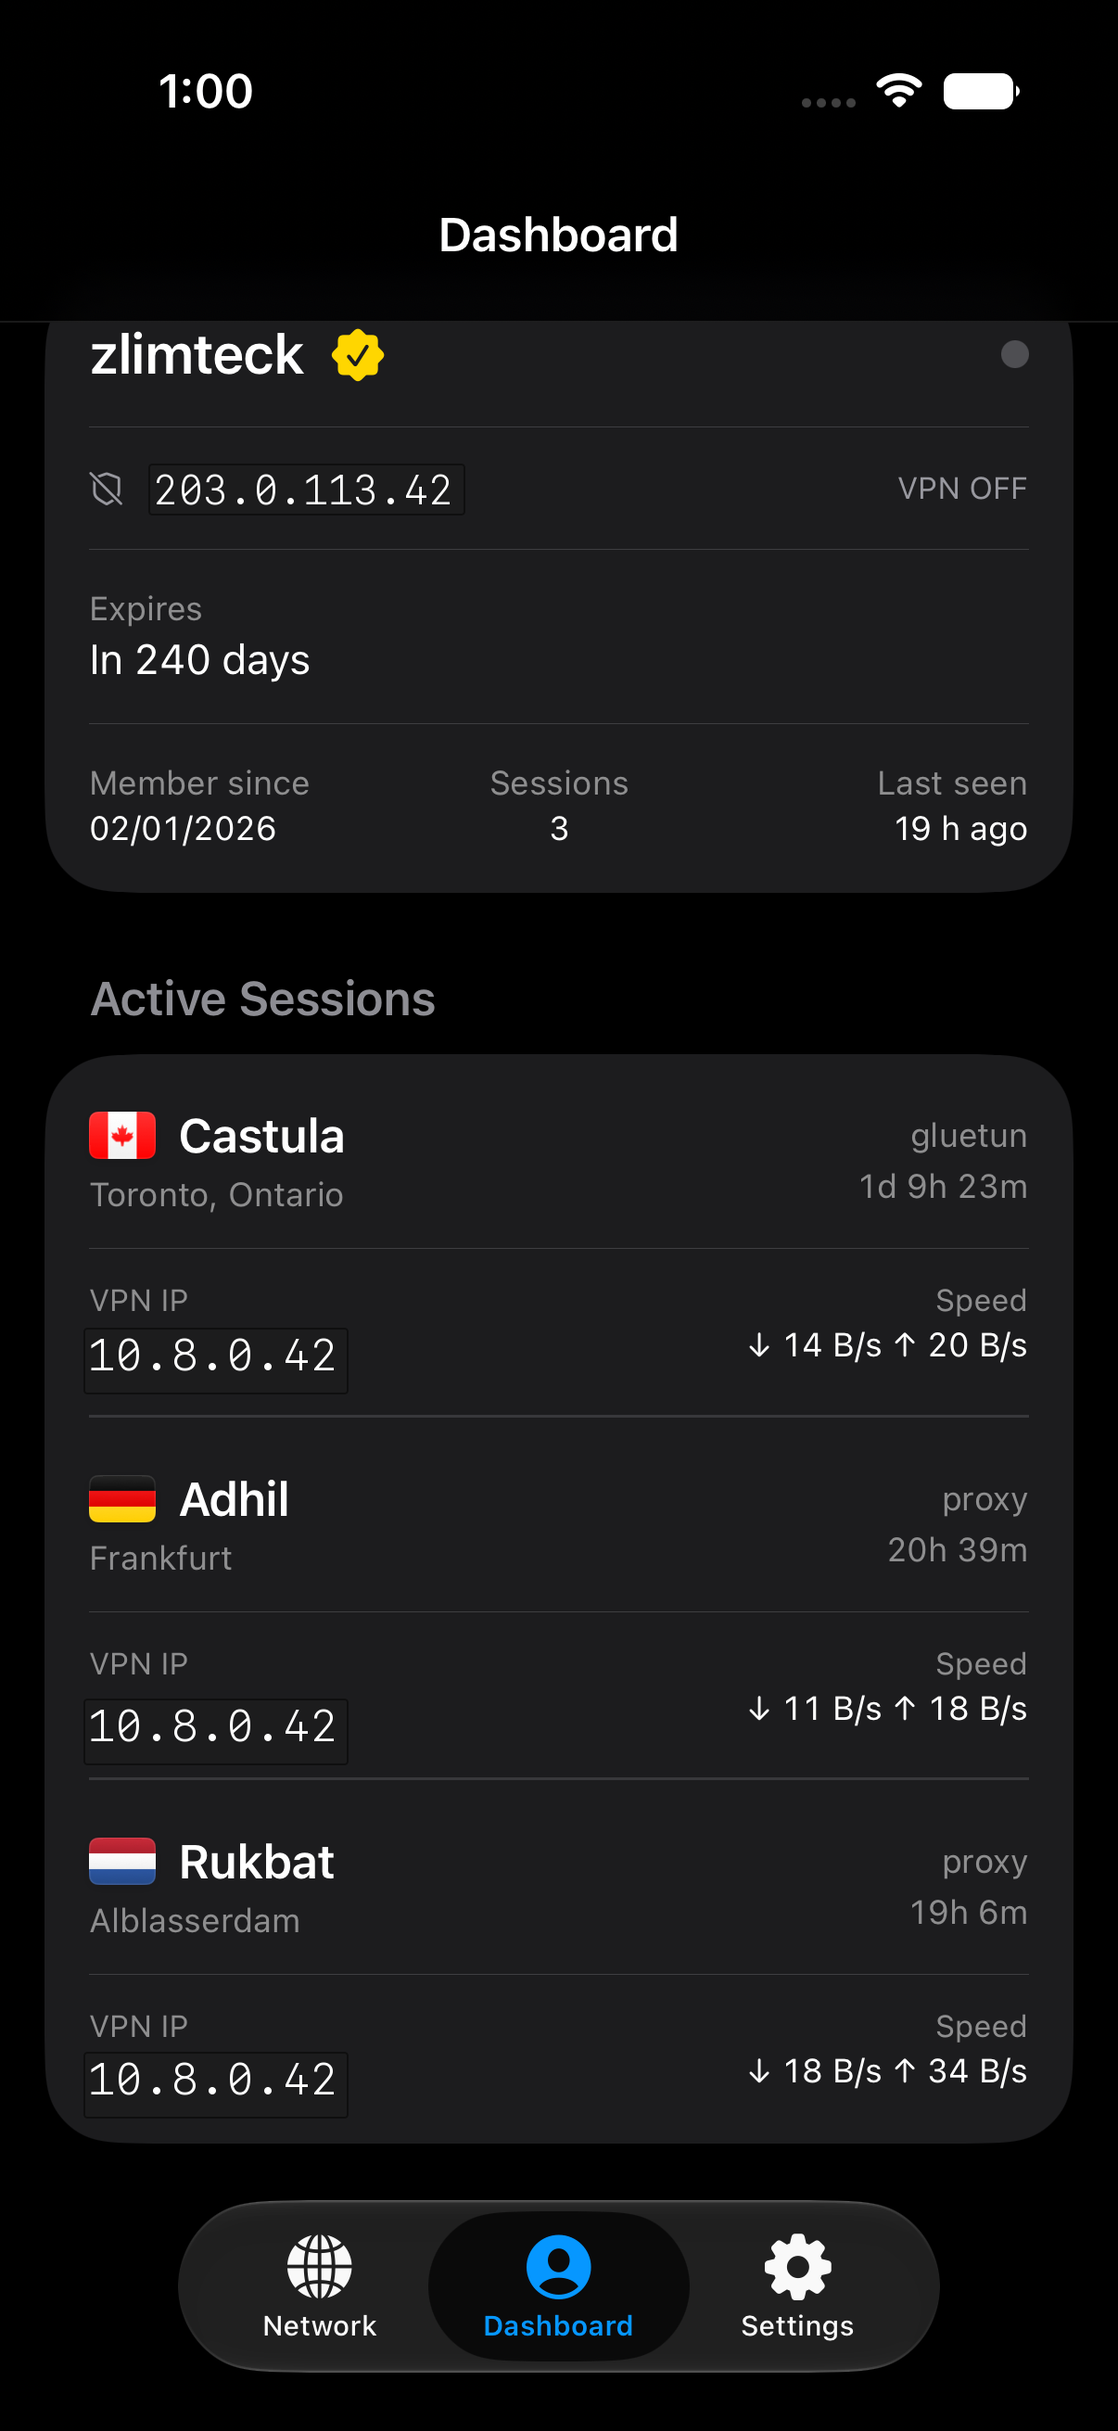
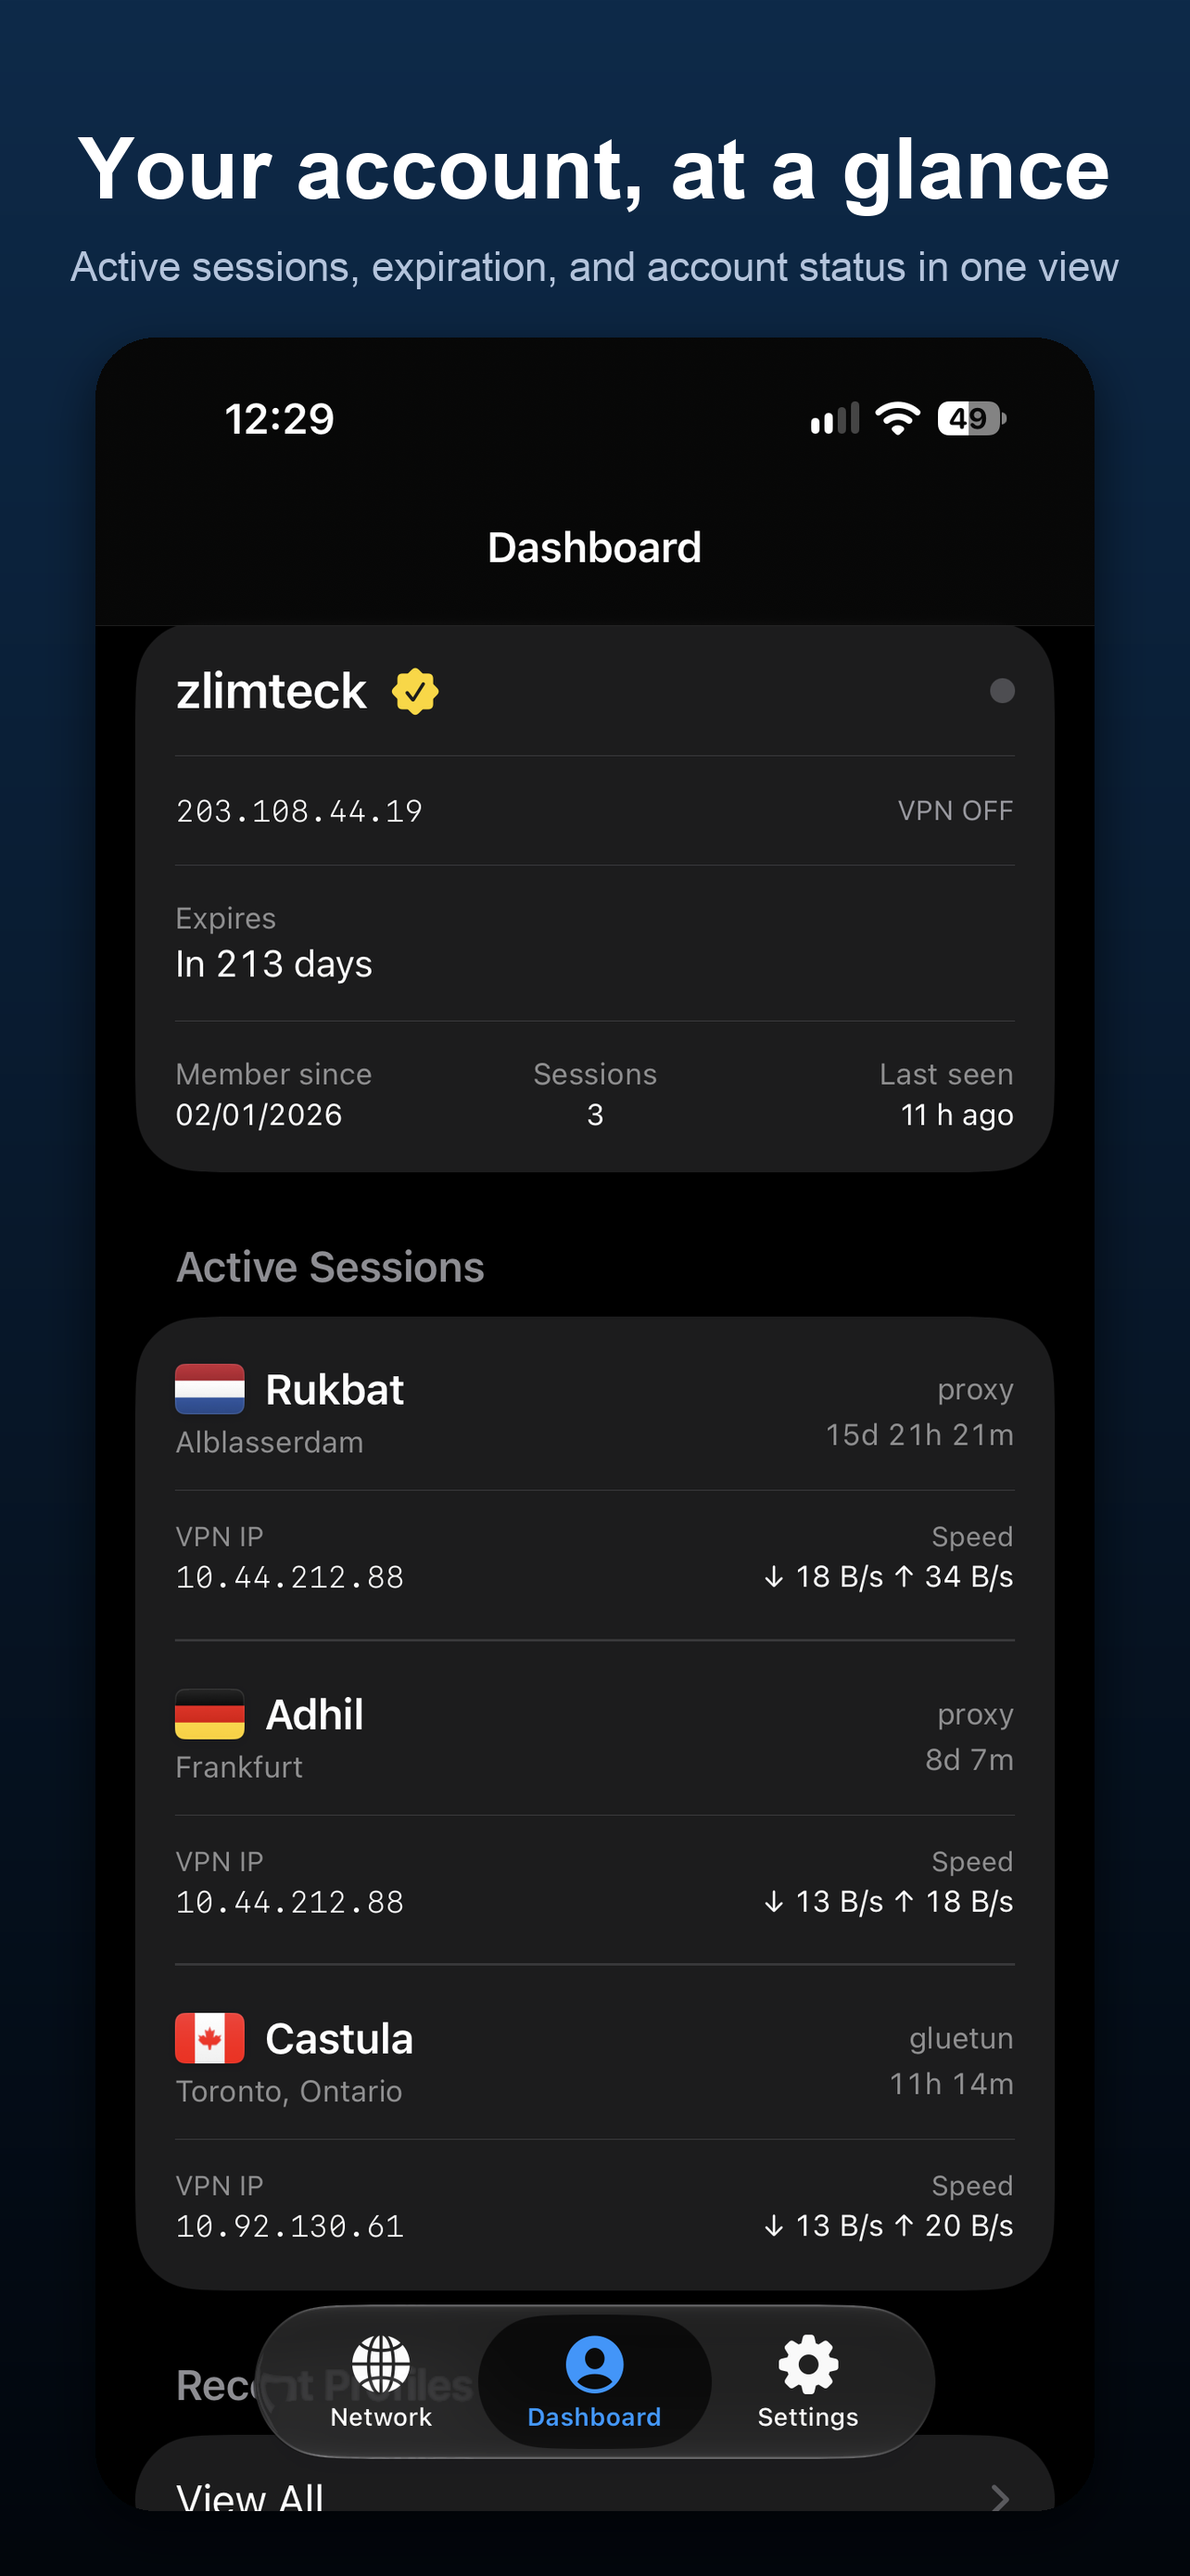
Update README screenshots and add project links
Replace the four raw screenshots with the new marketing-style versions
(gradient background, headline) and add a fifth for native VPN connect.
Link the privacy policy and license file, and add a short Contributing
section.

diff --git a/README.md b/README.md
@@ -15,10 +15,11 @@ Unofficial native iOS dashboard for [AirVPN](https://airvpn.org), built with Swi
 ## Screenshots
 
 <p float="left">
-  <img src="assets/screenshot-login.png" width="22%" alt="Login" />
-  <img src="assets/screenshot-dashboard.png" width="22%" alt="Dashboard" />
-  <img src="assets/screenshot-network.png" width="22%" alt="Network" />
-  <img src="assets/screenshot-server-detail.png" width="22%" alt="Server detail" />
+  <img src="assets/screenshot-login.png" width="18%" alt="Login" />
+  <img src="assets/screenshot-network.png" width="18%" alt="Network" />
+  <img src="assets/screenshot-dashboard.png" width="18%" alt="Dashboard" />
+  <img src="assets/screenshot-server-detail.png" width="18%" alt="Server detail" />
+  <img src="assets/screenshot-connect.png" width="18%" alt="Native VPN connect" />
 </p>
 
 ---
@@ -217,6 +218,14 @@ Server history, reliability, and the Trends ranking are powered by a separate, s
 
 ---
 
+## Contributing
+
+Found a bug or have a feature idea? Open an [issue](https://github.com/zlimteck/AirDash/issues) or a pull request.
+
+## Privacy Policy
+
+[PRIVACY.md](PRIVACY.md)
+
 ## License
 
-MIT
+[MIT](LICENSE)
